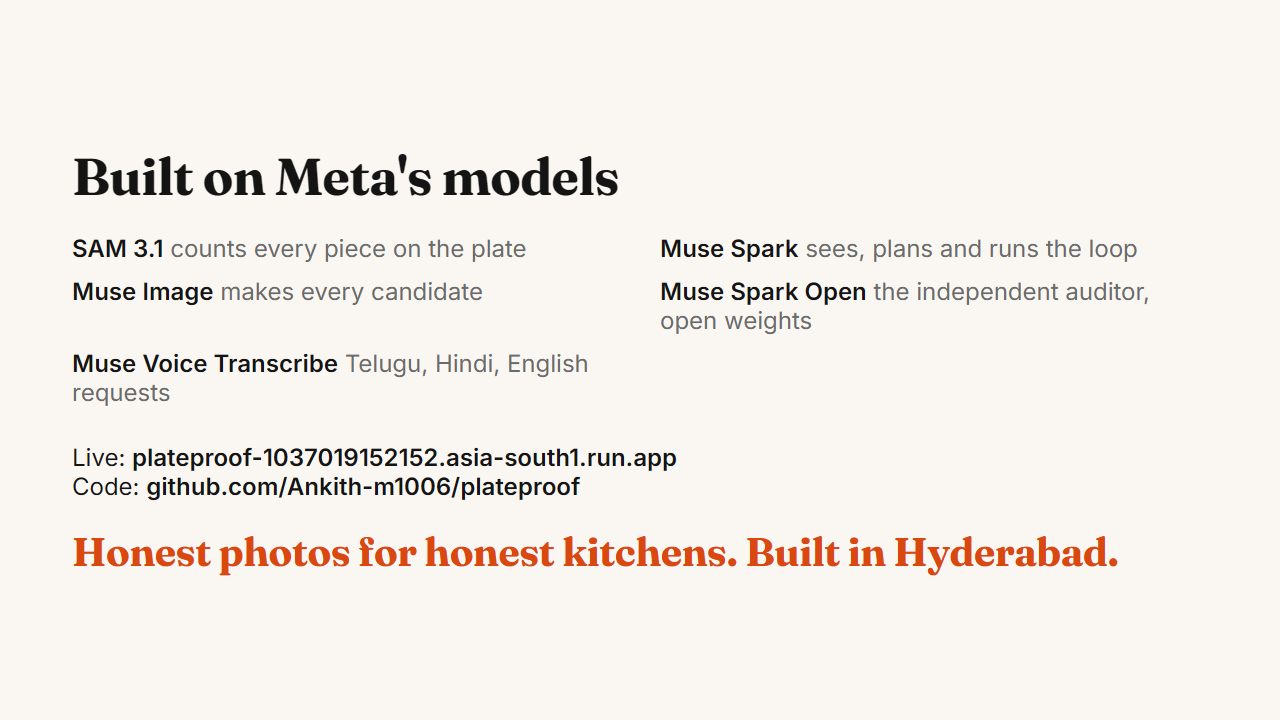
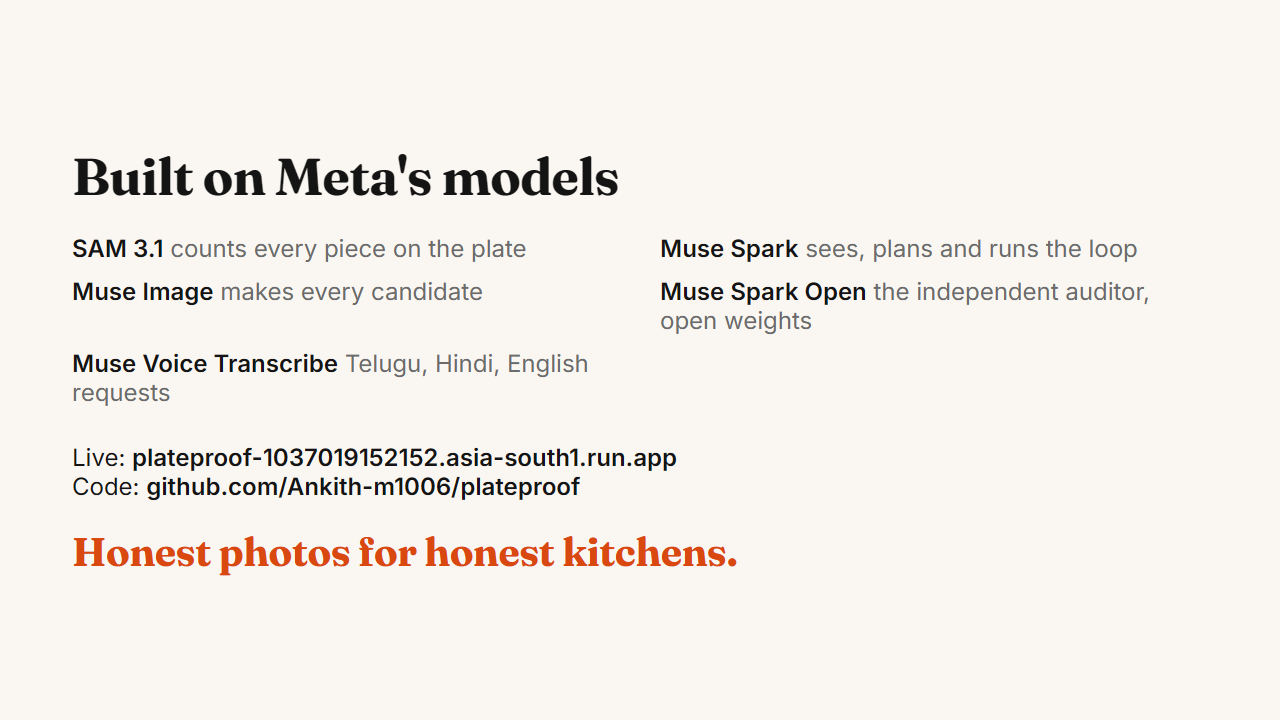
docs: drop the location line from the demo close

Changed region(s): [[0.5625, 0.7333, 0.875, 0.7944]]

diff --git a/docs/video/cards/c5.html b/docs/video/cards/c5.html
@@ -7,4 +7,4 @@
 <div><b>Muse Spark Open</b> <span class="muted">the independent auditor, open weights</span></div>
 <div><b>Muse Voice Transcribe</b> <span class="muted">Telugu, Hindi, English requests</span></div></div>
 <div style="font-size:24px;margin-top:10px">Live: <b>plateproof-1037019152152.asia-south1.run.app</b><br>Code: <b>github.com/Ankith-m1006/plateproof</b></div>
-<h2 style="font-size:40px;color:#d9480f">Honest photos for honest kitchens. Built in Hyderabad.</h2></div>
+<h2 style="font-size:40px;color:#d9480f">Honest photos for honest kitchens.</h2></div>

diff --git a/docs/video/VOICEOVER.md b/docs/video/VOICEOVER.md
@@ -32,4 +32,4 @@ One click makes the same plate for other places: an Instagram story, a Swiggy ti
 Why audit every version? Because when I asked an image editor to just restyle this dosa, it sent back a chicken salad. Without the audit, that is the photo that ships.
 
 **[2:25, card: Meta models + links]**
-PlateProof uses SAM 3.1, Muse Spark, Muse Image, Muse Spark Open and Muse Voice. It is live and open source. Honest photos for honest kitchens. Built in Hyderabad.
+PlateProof uses SAM 3.1, Muse Spark, Muse Image, Muse Spark Open and Muse Voice. It is live and open source. Honest photos for honest kitchens.
